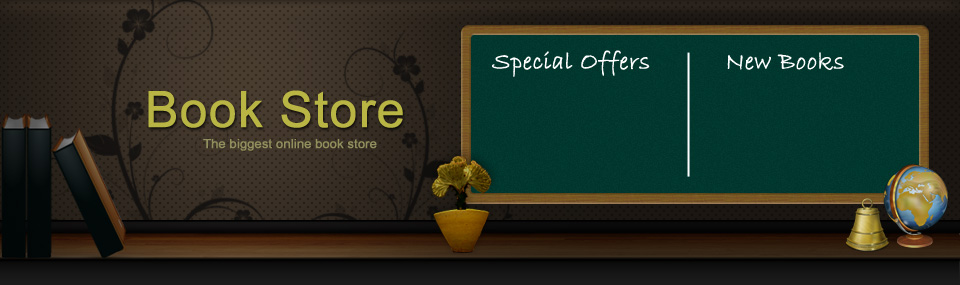
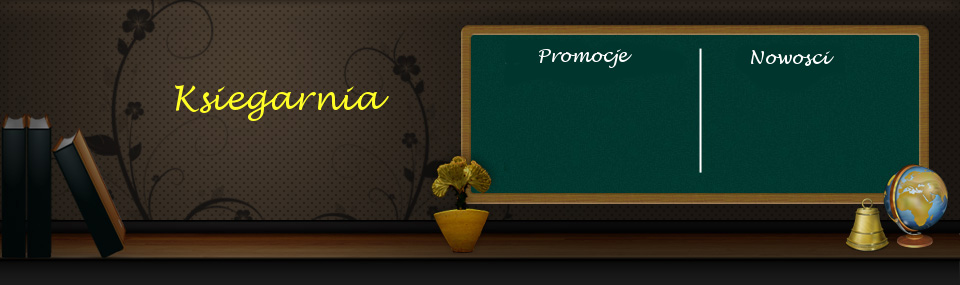
mysql
baza danych w mysql na serwerze db4freenet

diff --git a/templates/index.html b/templates/index.html
@@ -2,7 +2,7 @@
 <html xmlns="http://www.w3.org/1999/xhtml">
 <head>
 <meta http-equiv="Content-Type" content="text/html; charset=utf-8" />
-<title>Book Store Template, Free CSS Template, CSS Website Layout</title>
+<title>Tas_Księgarnia projekt</title>
 <meta name="keywords" content="Book Store Template, Free CSS Template, CSS Website Layout, CSS, HTML" />
 <meta name="description" content="Book Store Template, Free CSS Template, Download CSS Website" />
 {% load static %}
@@ -13,7 +13,12 @@
 <div id="templatemo_container">
 	<div id="templatemo_menu">
     	<ul>
-            &nbsp
+            <li><a href="#" class="current">Strona Główna</a></li>
+            <li><a href="#">Szukaj</a></li>
+            <li><a href="#">Książki</a></li>
+            <li><a href="#">Kontakt</a></li>
+            <li><a href="#">Rejestracja</a></li>
+            <li><a href="#">Logowanie</a></li>
     	</ul>
     </div> <!-- end of menu -->
     
@@ -22,7 +27,7 @@
         	<p>
                 &nbsp
         	</p>
-			<a href="subpage.html" style="margin-left: 50px;">Read more...</a>
+			<a href="subpage.html" style="margin-left: 50px;">Czytaj więcej</a>
         </div>
         
         
@@ -30,7 +35,7 @@
         	<ul>
                 &nbsp
             </ul>
-            <a href="subpage.html" style="margin-left: 50px;">Read more...</a>
+            <a href="subpage.html" style="margin-left: 50px;">Czytaj więcej</a>
         </div>
     </div> <!-- end of header -->
     
@@ -38,35 +43,32 @@
     	
         <div id="templatemo_content_left">
         	<div class="templatemo_content_left_section">
-            	<h1>&nbsp</h1>
+            	<h1>Kategorie</h1>
                 <ul>
                     &nbsp
             	</ul>
             </div>
 			<div class="templatemo_content_left_section">
-            	<h1>&nbsp</h1>
+            	<h1>Bestsellery</h1>
                 <ul>
                     &nbsp
             	</ul>
             </div>
             
-            <div class="templatemo_content_left_section">                
-                <a href="http://validator.w3.org/check?uri=referer"><img style="border:0;width:88px;height:31px" src="http://www.w3.org/Icons/valid-xhtml10" alt="Valid XHTML 1.0 Transitional" width="88" height="31" vspace="8" border="0" /></a>
-<a href="http://jigsaw.w3.org/css-validator/check/referer"><img style="border:0;width:88px;height:31px"  src="http://jigsaw.w3.org/css-validator/images/vcss-blue" alt="Valid CSS!" vspace="8" border="0" /></a>
-			</div>
+            
         </div> <!-- end of content left -->
         
         <div id="templatemo_content_right">
 
 
             <div class="templatemo_product_box">
-            	<h1>&nbsp<span></span></h1>
+            	<h1><span></span></h1>
             	<!-- <img src="/static/images/#" alt="image" /> -->
                 <div class="product_info">
                 	<p></p>
                     <h3></h3>
-                    <div class="buy_now_button"><a href="subpage.html"></a></div>
-                    <div class="detail_button"><a href="subpage.html"></a></div>
+                    <div class="buy_now_button"><a href="#">Kup teraz</a></div>
+                    <div class="detail_button"><a href="#">Więcej</a></div>
                 </div>
                 <div class="cleaner">&nbsp;</div>
             </div>

diff --git a/TAS_Ksiegarnia/settings.py b/TAS_Ksiegarnia/settings.py
@@ -67,8 +67,13 @@ WSGI_APPLICATION = 'TAS_Ksiegarnia.wsgi.application'
 
 DATABASES = {
     'default': {
-        'ENGINE': 'django.db.backends.sqlite3',
-        'NAME': os.path.join(BASE_DIR, 'db.sqlite3'),
+        'ENGINE': 'django.db.backends.mysql',
+        'NAME': 'tasksiegarnia',
+	    'USER': 'ksiegarnia',
+        'PASSWORD': 'tas_projekt',
+		'HOST': 'db4free.net',                      
+
+		
     }
 }
 
